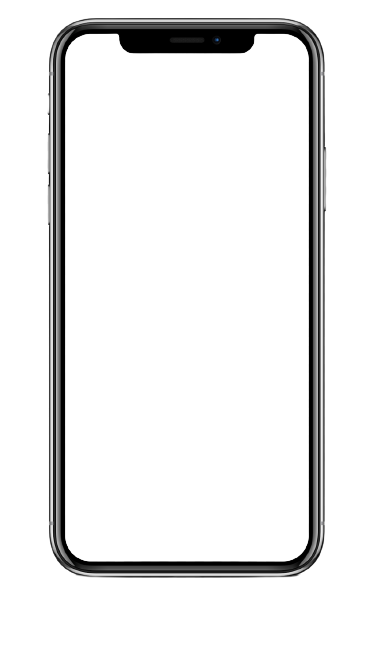
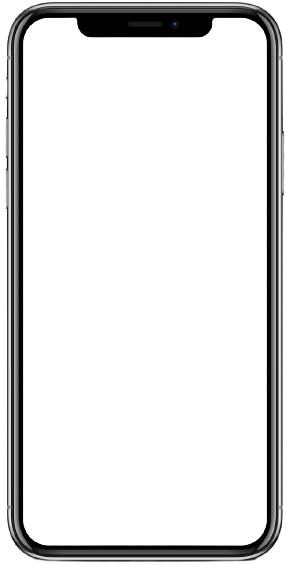
tela home criada

Changed region(s): [[0.0, 0.0, 1.0, 1.0]]

diff --git a/estilos/style.css b/estilos/style.css
@@ -1,0 +1,46 @@
+@charset "UTF-8";
+
+*{
+
+    margin: 0;
+    padding: 0;
+    font-family: Arial, Helvetica, sans-serif;
+}
+
+html, body{
+    height: 100vh;
+    width: 100vw;
+    background-color: black;
+}
+
+body{
+    background: url(../imagens/fundo-madeira.jpg) no-repeat top center;
+    background-size: cover;
+    background-attachment: fixed;
+}
+main {
+    height: 100vh;
+    position: relative;
+    
+
+}
+
+section#telefone{
+    position: absolute;
+    top: 50%;
+    left: 50%;
+    transform: translate(-50%, -50%);
+    height: 573px;
+    width: 285px;
+    background:   url(../imagens/frame-iphone11.2.png) no-repeat;
+    
+}
+
+iframe#tela{
+    position: relative;
+    top: 17px;
+    left: 22px;
+    width: 248px;
+    height: 530px;
+    border-radius: 28px;
+}

diff --git a/index.html b/index.html
@@ -1,0 +1,22 @@
+<!DOCTYPE html>
+<html lang="ptbr">
+<head>
+    <meta charset="UTF-8">
+    <meta http-equiv="X-UA-Compatible" content="IE=edge">
+    <meta name="viewport" content="width=device-width, initial-scale=1.0">
+    <link rel="shortcut icon" href="favicon.ico" type="image/x-icon">
+    <link rel="stylesheet" href="estilos/style.css">
+    <title>Minhas Redes Sociais</title>
+</head>
+<body>
+    <main>
+        <section id="telefone">
+            <iframe src="home.html" name="tela" id="tela" frameborder="0"></iframe>
+        </section>
+
+        <section id="redes-sociais">
+
+        </section>
+    </main>
+</body>
+</html>

diff --git a/home.html b/home.html
@@ -1,0 +1,25 @@
+<!DOCTYPE html>
+<html lang="pt-br">
+<head>
+    <meta charset="UTF-8">
+    <meta http-equiv="X-UA-Compatible" content="IE=edge">
+    <meta name="viewport" content="width=device-width, initial-scale=1.0">
+    <title>Home</title>
+    <style>
+        *{
+            margin: 0px;
+            padding: 0px;
+        }
+
+        body{
+            width: 100vw;
+            height: 100vh;
+            background: black url(imagens/tela-inicial-iphone.png) no-repeat center;
+            background-size: cover ;
+        }
+    </style>
+</head>
+<body>
+    
+</body>
+</html>
